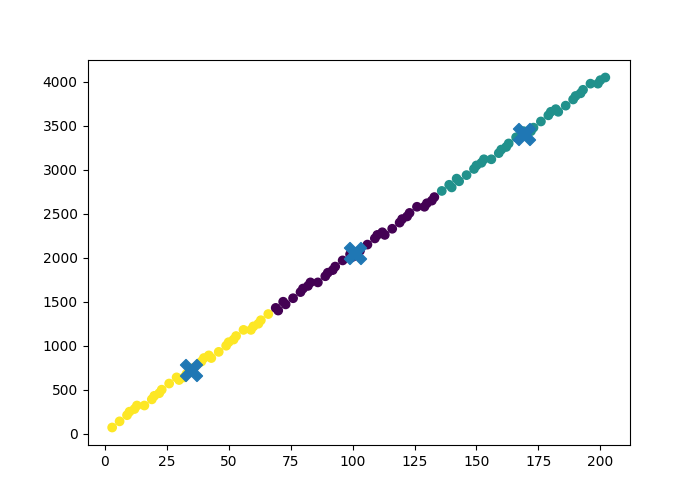
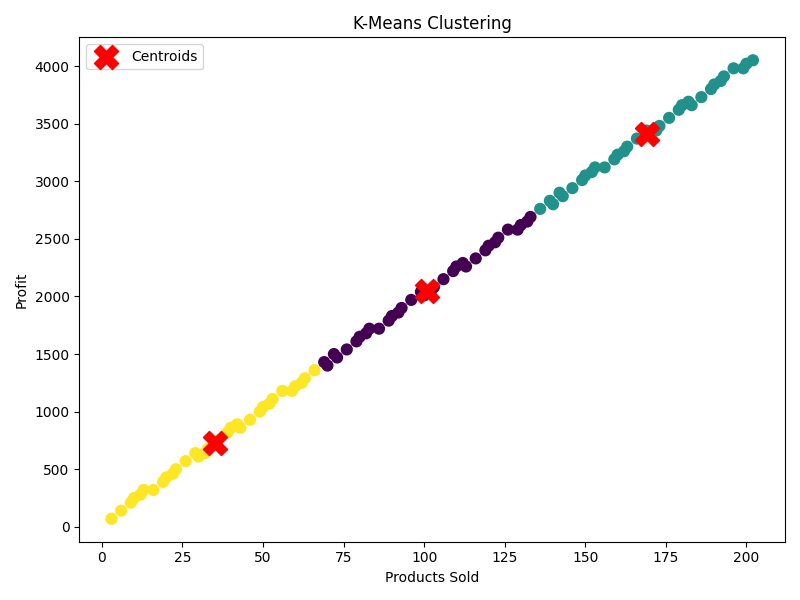
visual kmeans_application

diff --git a/templates/kmeans_application.html b/templates/kmeans_application.html
@@ -1,26 +1,64 @@
-<h2>Clustering Application</h2>
+{% extends "base.html" %}
+{% block content %}
+<div class="container mt-4">
 
-<h3>Dataset Context</h3>
-<p>This dataset represents numerical patterns for clustering.</p>
+  <h2 class="title mb-4">K-Means Clustering Dashboard</h2>
 
-<h3>Dataset Description</h3>
-<ul>
-  <li>Records: 1000+</li>
-  <li>Features: Feature1, Feature2</li>
-</ul>
+  <!-- OVERVIEW -->
+  <div class="card-box">
+    <h4>Dataset Overview</h4>
+    <div class="row">
+      <div><strong>Total Records:</strong> {{ total }}</div>
+      <div><strong>Features:</strong> {{ columns[0] }}, {{ columns[1] }}</div>
+      <div><strong>Clusters:</strong> 3</div>
+    </div>
+  </div>
 
-<h3>Cluster Results</h3>
-{{ tables | safe }}
+  <!-- GRAPH -->
+  <div class="card-box text-center">
+    <h4>Cluster Visualization</h4>
+    <img src="{{ image }}" class="chart-img">
+  </div>
 
-<h3>Centroids</h3>
-<ul>
-  {% for c in centroids %}
-    <li>{{ c }}</li>
-  {% endfor %}
-</ul>
+  <!-- CENTROIDS -->
+  <div class="card-box">
+    <h4>Centroids</h4>
+    <div class="centroid-container">
+      {% for c in centroids %}
+      <div class="centroid-card">
+        <p>X: {{ c[0]|round(2) }}</p>
+        <p>Y: {{ c[1]|round(2) }}</p>
+      </div>
+      {% endfor %}
+    </div>
+  </div>
 
-<h3>Visualization</h3>
-<img src="{{ image }}" width="500">
+  <!-- SUMMARY -->
+  <div class="card-box">
+    <h4>Cluster Summary</h4>
+    <div class="table-container">
+      {{ summary | safe }}
+    </div>
+  </div>
 
-<h3>Interpretation</h3>
-<p>The clusters show grouping of similar values and clear separation.</p>
+  <!-- TABLE -->
+  <div class="card-box">
+    <h4>Cluster Results (Sample)</h4>
+    <div class="table-container">
+      {{ tables | safe }}
+    </div>
+  </div>
+
+  <!-- INTERPRETATION -->
+  <div class="card-box">
+    <h4>Interpretation</h4>
+    <p>
+      The K-Means algorithm segmented the dataset into three clusters based on
+      product sales and profit. Each cluster represents a distinct behavioral
+      pattern. Centroids indicate the average position of each segment, enabling
+      decision-making for pricing and sales strategies.
+    </p>
+  </div>
+
+</div>
+{% endblock %}

diff --git a/static/css/styles.css b/static/css/styles.css
@@ -224,7 +224,7 @@ button:hover {
     padding: 12px;
 
     background: #e0f2fe;
-    border-left: 5px solid #0284c7;
+    border-left: 5px solid #07a8a5;
     border-radius: 6px;
 }
 
@@ -349,7 +349,7 @@ button:hover {
 
 .subtitle {
     font-size: 18px;
-    color: #555;
+    color: #000e0c;
     margin-bottom: 30px;
     text-align: center;
 }
@@ -396,4 +396,61 @@ button:hover {
 .feature-box p {
     font-size: 14px;
     line-height: 1.5;
+}
+
+/* TITLES */
+.title {
+    font-weight: bold;
+    color: #018782;
+}
+
+/* CARD STYLE */
+.card-box {
+    background: #dae0df;
+    padding: 25px;
+    border-radius: 15px;
+    margin-bottom: 25px;
+    box-shadow: 0px 4px 15px rgba(0,0,0,0.1);
+}
+
+/* TABLE */
+.table-container {
+    overflow-x: auto;
+}
+
+.table {
+    border-radius: 10px;
+    overflow: hidden;
+}
+
+.table thead {
+    background-color: #000610;
+    color: white;
+}
+
+/* CENTROIDS */
+.centroid-container {
+    display: flex;
+    gap: 15px;
+    flex-wrap: wrap;
+}
+
+.centroid-card {
+    background: linear-gradient(135deg, #74a8aa, #1ca694);
+    color: white;
+    padding: 15px;
+    border-radius: 10px;
+    width: 150px;
+    text-align: center;
+}
+
+/* GRAPH */
+.chart-img {
+    max-width: 600px;
+    margin-top: 10px;
+}
+
+/* BACKGROUND */
+body {
+    background: linear-gradient(135deg, #e3f2fd, #ffffff);
 }

diff --git a/app.py b/app.py
@@ -1,6 +1,8 @@
 from flask import Flask, render_template, request, redirect, url_for, session
 import pandas as pd
 from sklearn.cluster import KMeans
+import matplotlib
+matplotlib.use('Agg')
 import matplotlib.pyplot as plt
 import os
 
@@ -160,29 +162,32 @@ def kmeans_application():
 
     df = pd.read_excel('kmeans_dataset.xlsx')
 
-    # 👇 usar columnas reales de tu archivo
-    X = df[['Products_Sold (X)', 'Profit (Y)']]
+    X = df[['Products_Sold (X)', 'Profit (Y)']].copy()
+    X = X.apply(pd.to_numeric, errors='coerce').dropna()
 
-    # convertir a numérico (por si acaso)
-    X = X.apply(pd.to_numeric, errors='coerce')
+    if X.empty or X.shape[1] < 2:
+        return "Error: dataset vacío o columnas inválidas"
 
-    # eliminar nulos
-    X = X.dropna()
-
-    if X.empty:
-        return "Error: dataset vacío después de limpieza"
-
-    # modelo
     kmeans = KMeans(n_clusters=3, random_state=42)
-    df = df.loc[X.index]  # alinear índices
+    df = df.loc[X.index].copy()
     df['Cluster'] = kmeans.fit_predict(X)
-
     centroids = kmeans.cluster_centers_
 
-    # gráfica
-    plt.figure(figsize=(7,5))
-    plt.scatter(X.iloc[:,0], X.iloc[:,1], c=df['Cluster'])
-    plt.scatter(centroids[:,0], centroids[:,1], marker='X', s=250)
+    summary = (
+        df.groupby('Cluster')[['Products_Sold (X)', 'Profit (Y)']]
+          .agg(['count','mean','min','max'])
+          .round(2)
+    )
+
+    plt.figure(figsize=(8,6))
+    plt.scatter(X.iloc[:,0], X.iloc[:,1], c=df['Cluster'], cmap='viridis', s=60)
+    plt.scatter(centroids[:,0], centroids[:,1],
+                color='red', s=300, marker='X', label='Centroids')
+    plt.title('K-Means Clustering')
+    plt.xlabel('Products Sold')
+    plt.ylabel('Profit')
+    plt.legend()
+    plt.tight_layout()
 
     os.makedirs('static/img', exist_ok=True)
     img_path = 'static/img/clusters.png'
@@ -191,12 +196,16 @@ def kmeans_application():
 
     return render_template(
         'kmeans_application.html',
-        tables=df.head(100).to_html(classes='table table-dark table-striped'),
+        tables=df.head(40).to_html(
+            classes='table table-striped table-hover text-center', index=False
+        ),
+        summary=summary.to_html(classes='table table-sm table-striped text-center'),
         centroids=centroids,
         image=img_path,
         total=len(df),
         columns=['Products_Sold (X)', 'Profit (Y)']
     )
+
 # ==============================
 # RUN APP
 # ==============================
